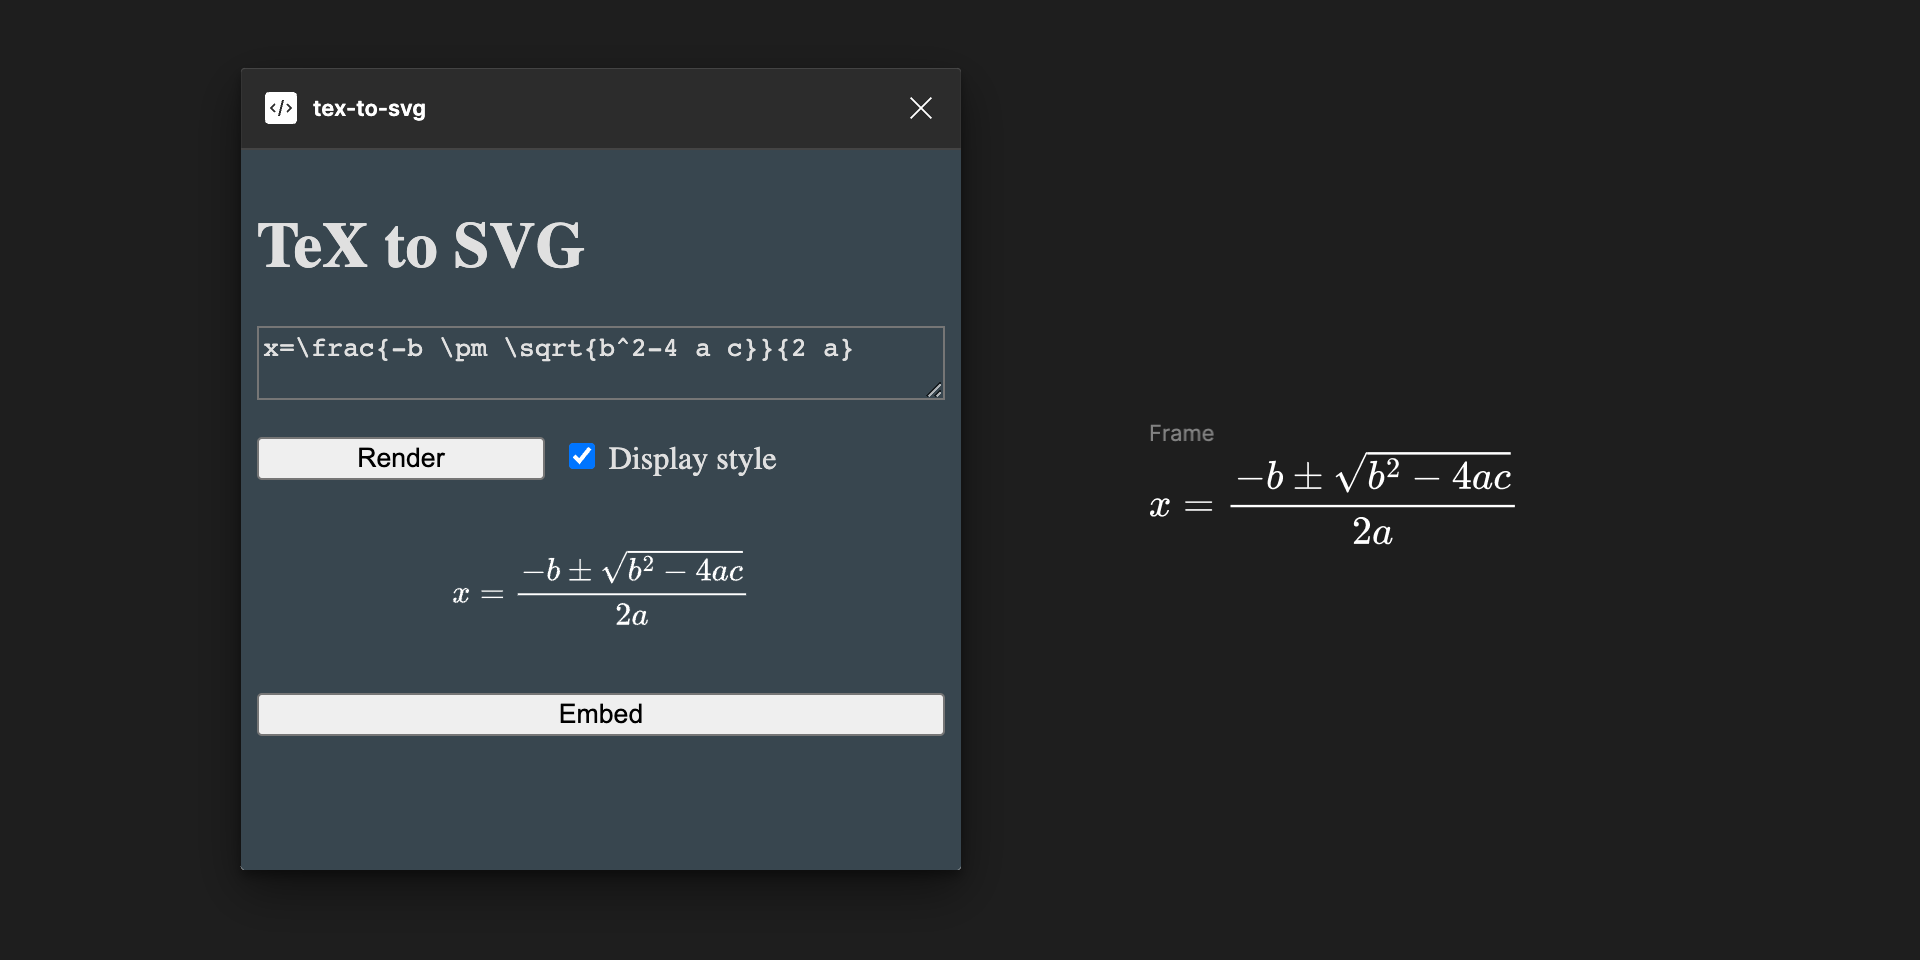
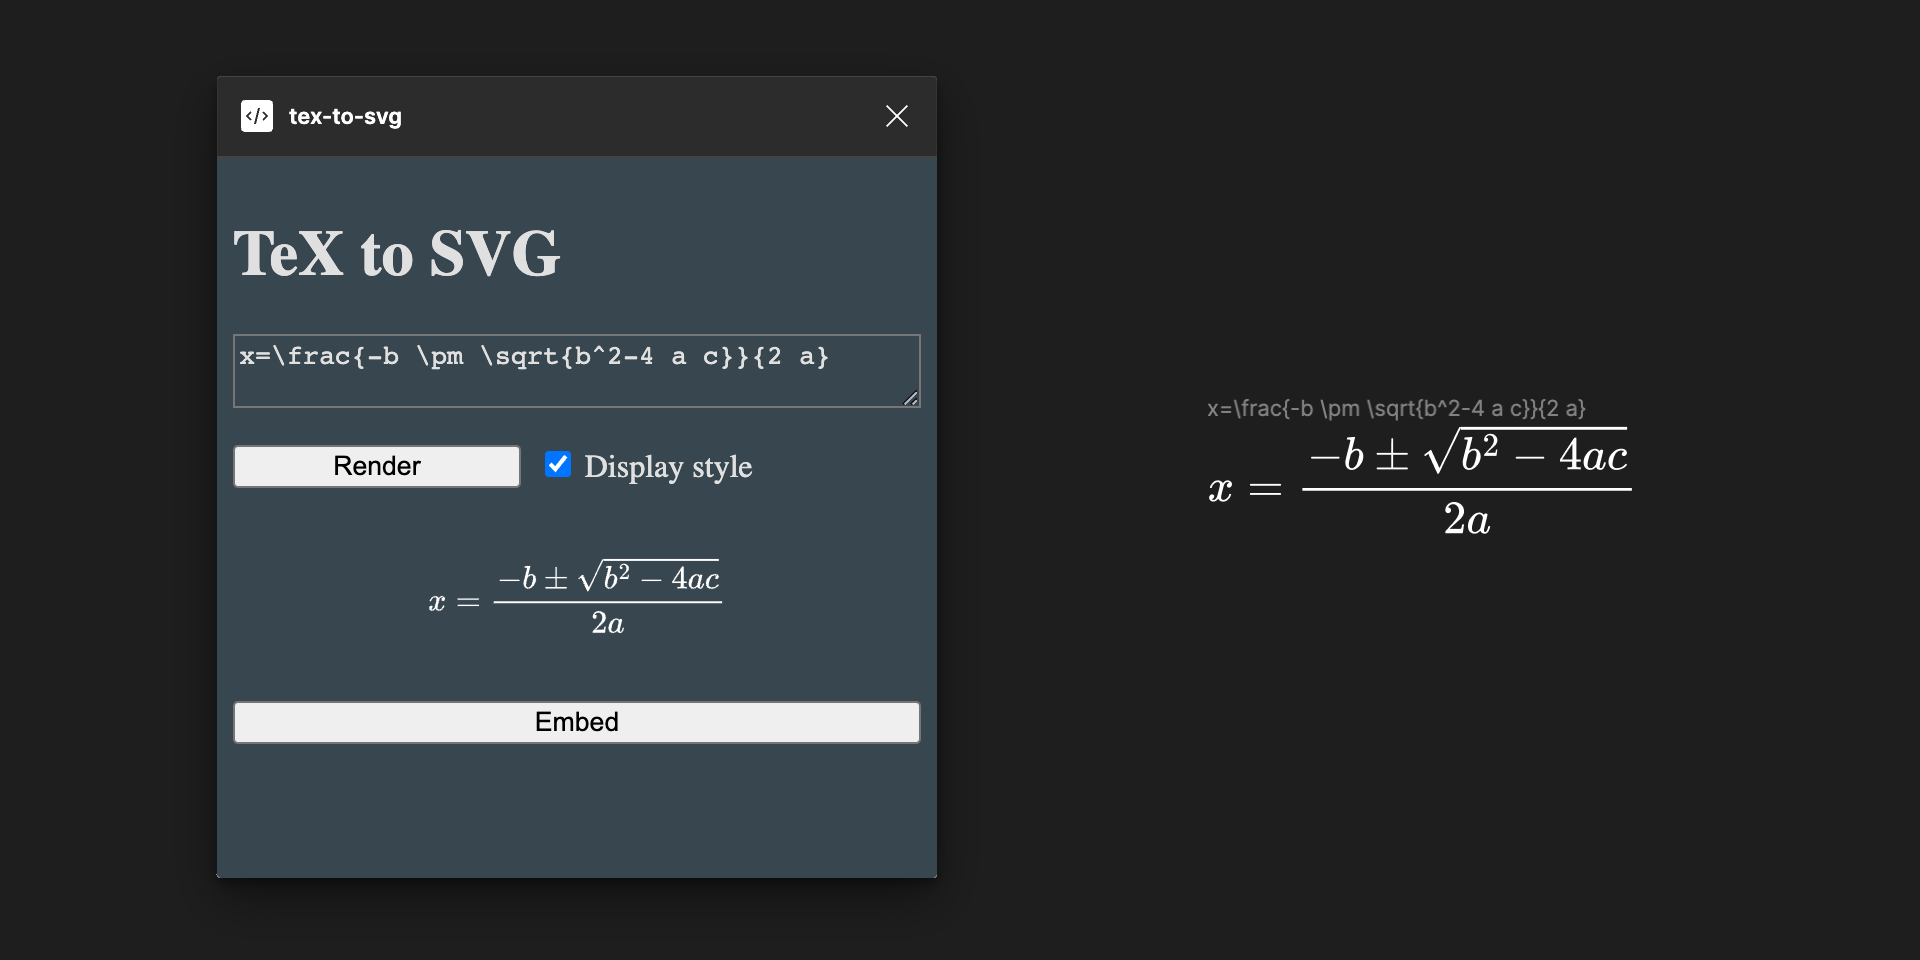
Bump version number in package.json

diff --git a/ui.html b/ui.html
@@ -54,7 +54,7 @@
 <main>
   <h1>TeX to SVG</h1>
   <div class="container">
-    <textarea id="input">x = {-b \pm \sqrt{b^2-4ac} \over 2a}</textarea>
+    <textarea id="input">x=\frac{-b \pm \sqrt{b^2-4 a c}}{2 a}</textarea>
     <br>
 
     <div class="controls">
